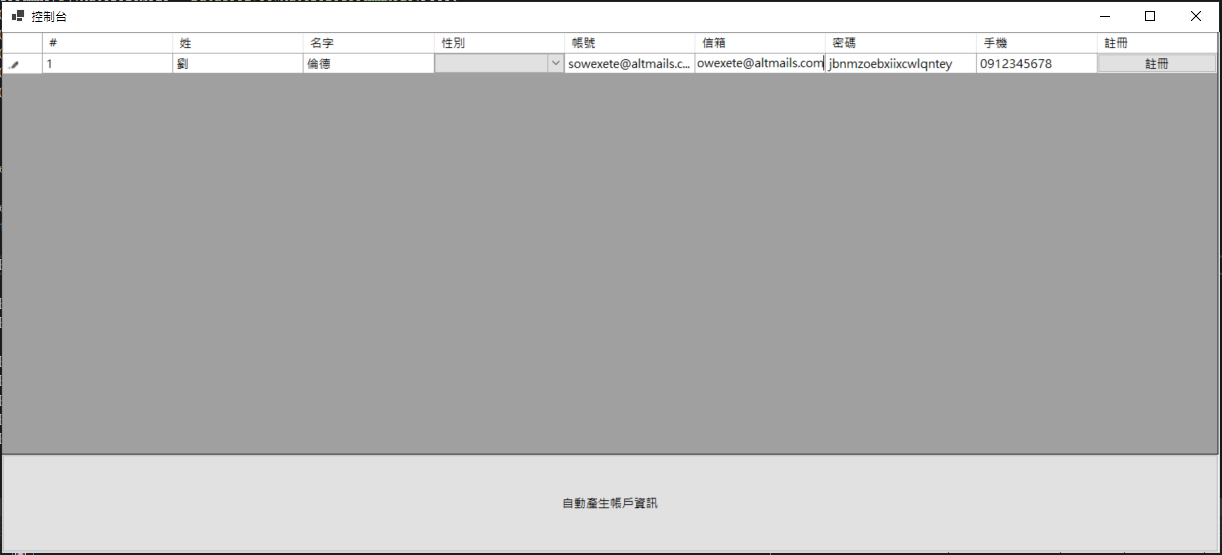
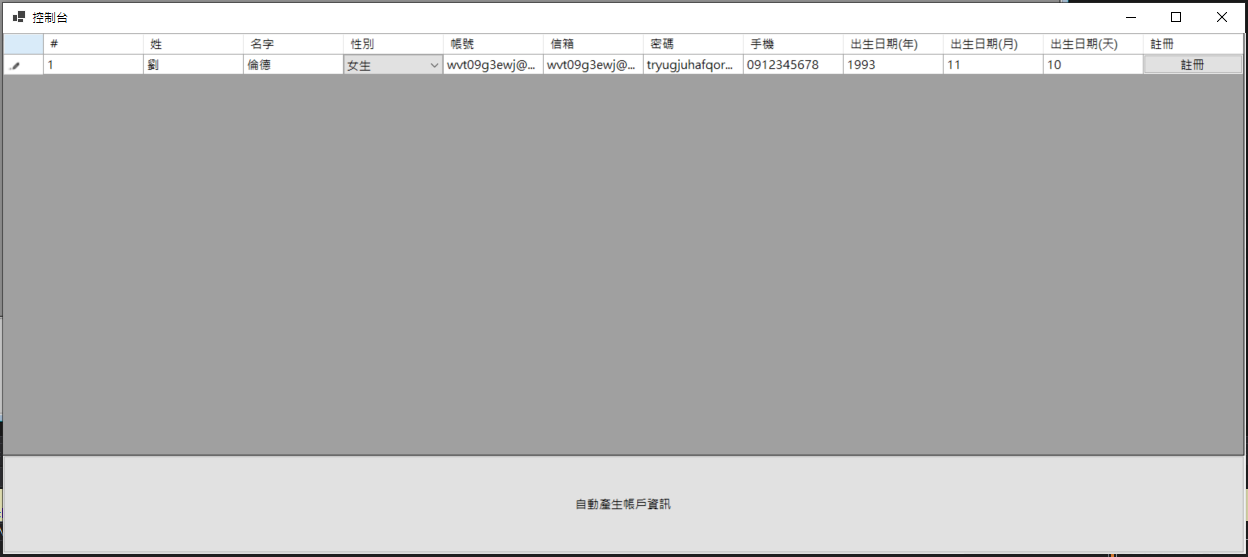
update member information

diff --git a/AutomaticGenerator/Form1.Designer.cs b/AutomaticGenerator/Form1.Designer.cs
@@ -30,6 +30,7 @@ namespace AutomaticGenerator
         private void InitializeComponent()
         {
             this.dataGridView1 = new System.Windows.Forms.DataGridView();
+            this.createAccount = new System.Windows.Forms.Button();
             this.sort = new System.Windows.Forms.DataGridViewTextBoxColumn();
             this.lastName = new System.Windows.Forms.DataGridViewTextBoxColumn();
             this.firstName = new System.Windows.Forms.DataGridViewTextBoxColumn();
@@ -38,8 +39,10 @@ namespace AutomaticGenerator
             this.email = new System.Windows.Forms.DataGridViewTextBoxColumn();
             this.password = new System.Windows.Forms.DataGridViewTextBoxColumn();
             this.cellPhone = new System.Windows.Forms.DataGridViewTextBoxColumn();
+            this.year = new System.Windows.Forms.DataGridViewTextBoxColumn();
+            this.month = new System.Windows.Forms.DataGridViewTextBoxColumn();
+            this.day = new System.Windows.Forms.DataGridViewTextBoxColumn();
             this.register = new System.Windows.Forms.DataGridViewButtonColumn();
-            this.createAccount = new System.Windows.Forms.Button();
             ((System.ComponentModel.ISupportInitialize)(this.dataGridView1)).BeginInit();
             this.SuspendLayout();
             // 
@@ -60,15 +63,32 @@ namespace AutomaticGenerator
             this.email,
             this.password,
             this.cellPhone,
+            this.year,
+            this.month,
+            this.day,
             this.register});
             this.dataGridView1.Location = new System.Drawing.Point(-1, -1);
             this.dataGridView1.Margin = new System.Windows.Forms.Padding(4);
             this.dataGridView1.Name = "dataGridView1";
             this.dataGridView1.RowHeadersWidth = 51;
             this.dataGridView1.RowTemplate.Height = 25;
-            this.dataGridView1.Size = new System.Drawing.Size(1181, 529);
+            this.dataGridView1.Size = new System.Drawing.Size(1553, 529);
             this.dataGridView1.TabIndex = 0;
             this.dataGridView1.CellClick += new System.Windows.Forms.DataGridViewCellEventHandler(this.dataGridView1_CellClick);
+            // 
+            // createAccount
+            // 
+            this.createAccount.Anchor = ((System.Windows.Forms.AnchorStyles)((((System.Windows.Forms.AnchorStyles.Top | System.Windows.Forms.AnchorStyles.Bottom) 
+            | System.Windows.Forms.AnchorStyles.Left) 
+            | System.Windows.Forms.AnchorStyles.Right)));
+            this.createAccount.Location = new System.Drawing.Point(0, 528);
+            this.createAccount.Margin = new System.Windows.Forms.Padding(4);
+            this.createAccount.Name = "createAccount";
+            this.createAccount.Size = new System.Drawing.Size(1552, 122);
+            this.createAccount.TabIndex = 1;
+            this.createAccount.Text = "自動產生帳戶資訊";
+            this.createAccount.UseVisualStyleBackColor = true;
+            this.createAccount.Click += new System.EventHandler(this.createAccount_Click);
             // 
             // sort
             // 
@@ -129,6 +149,27 @@ namespace AutomaticGenerator
             this.cellPhone.Name = "cellPhone";
             this.cellPhone.Width = 125;
             // 
+            // year
+            // 
+            this.year.HeaderText = "出生日期(年)";
+            this.year.MinimumWidth = 6;
+            this.year.Name = "year";
+            this.year.Width = 125;
+            // 
+            // month
+            // 
+            this.month.HeaderText = "出生日期(月)";
+            this.month.MinimumWidth = 6;
+            this.month.Name = "month";
+            this.month.Width = 125;
+            // 
+            // day
+            // 
+            this.day.HeaderText = "出生日期(天)";
+            this.day.MinimumWidth = 6;
+            this.day.Name = "day";
+            this.day.Width = 125;
+            // 
             // register
             // 
             this.register.HeaderText = "註冊";
@@ -139,25 +180,11 @@ namespace AutomaticGenerator
             this.register.Text = "註冊";
             this.register.Width = 125;
             // 
-            // createAccount
-            // 
-            this.createAccount.Anchor = ((System.Windows.Forms.AnchorStyles)((((System.Windows.Forms.AnchorStyles.Top | System.Windows.Forms.AnchorStyles.Bottom) 
-            | System.Windows.Forms.AnchorStyles.Left) 
-            | System.Windows.Forms.AnchorStyles.Right)));
-            this.createAccount.Location = new System.Drawing.Point(0, 528);
-            this.createAccount.Margin = new System.Windows.Forms.Padding(4);
-            this.createAccount.Name = "createAccount";
-            this.createAccount.Size = new System.Drawing.Size(1180, 122);
-            this.createAccount.TabIndex = 1;
-            this.createAccount.Text = "自動產生帳戶資訊";
-            this.createAccount.UseVisualStyleBackColor = true;
-            this.createAccount.Click += new System.EventHandler(this.createAccount_Click);
-            // 
             // Form1
             // 
             this.AutoScaleDimensions = new System.Drawing.SizeF(9F, 19F);
             this.AutoScaleMode = System.Windows.Forms.AutoScaleMode.Font;
-            this.ClientSize = new System.Drawing.Size(1182, 651);
+            this.ClientSize = new System.Drawing.Size(1554, 651);
             this.Controls.Add(this.createAccount);
             this.Controls.Add(this.dataGridView1);
             this.Margin = new System.Windows.Forms.Padding(4);
@@ -180,6 +207,9 @@ namespace AutomaticGenerator
         private System.Windows.Forms.DataGridViewTextBoxColumn email;
         private System.Windows.Forms.DataGridViewTextBoxColumn password;
         private System.Windows.Forms.DataGridViewTextBoxColumn cellPhone;
+        private System.Windows.Forms.DataGridViewTextBoxColumn year;
+        private System.Windows.Forms.DataGridViewTextBoxColumn month;
+        private System.Windows.Forms.DataGridViewTextBoxColumn day;
         private System.Windows.Forms.DataGridViewButtonColumn register;
     }
 }

diff --git a/AutomaticGenerator/Form1.cs b/AutomaticGenerator/Form1.cs
@@ -37,6 +37,9 @@ namespace AutomaticGenerator
             dataGridView1.Columns[6].AutoSizeMode = DataGridViewAutoSizeColumnMode.Fill;
             dataGridView1.Columns[7].AutoSizeMode = DataGridViewAutoSizeColumnMode.Fill;
             dataGridView1.Columns[8].AutoSizeMode = DataGridViewAutoSizeColumnMode.Fill;
+            dataGridView1.Columns[9].AutoSizeMode = DataGridViewAutoSizeColumnMode.Fill;
+            dataGridView1.Columns[10].AutoSizeMode = DataGridViewAutoSizeColumnMode.Fill;
+            dataGridView1.Columns[11].AutoSizeMode = DataGridViewAutoSizeColumnMode.Fill;
         }
 
         private void createAccount_Click(object sender, EventArgs e)
@@ -45,15 +48,16 @@ namespace AutomaticGenerator
             var index = dataGridView1.Rows.Add();
 
             dataGridView1.Rows[index].Cells["sort"].Value = index + 1;
-
             dataGridView1.Rows[index].Cells["lastname"].Value = "劉";
             dataGridView1.Rows[index].Cells["firstName"].Value = "倫德";
-
             dataGridView1.Rows[index].Cells["email"].Value = mails;
             dataGridView1.Rows[index].Cells["account"].Value = mails;
             dataGridView1.Rows[index].Cells["password"].Value = Mmeber.RandomString(20, true);
             dataGridView1.Rows[index].Cells["cellPhone"].Value = "0912345678";
             dataGridView1.Rows[index].Cells["register"].Value = "註冊";
+            dataGridView1.Rows[index].Cells["year"].Value = "1993";
+            dataGridView1.Rows[index].Cells["month"].Value = "11";
+            dataGridView1.Rows[index].Cells["day"].Value = "10";
         }
 
         private void dataGridView1_CellClick(object sender, DataGridViewCellEventArgs e)
@@ -61,10 +65,8 @@ namespace AutomaticGenerator
             if (dataGridView1.CurrentCell == null || dataGridView1.CurrentCell.Value == null || e.RowIndex == -1) 
                 return;
 
-            if (e.ColumnIndex == 8)
+            if (e.ColumnIndex == 11)
             {
-                // MessageBox.Show(dataGridView1.CurrentCell.Value.ToString());
-
                 var DeviceDriver = ChromeDriverService.CreateDefaultService();
                 DeviceDriver.HideCommandPromptWindow = true;
 
@@ -78,15 +80,14 @@ namespace AutomaticGenerator
 
                 string lastname = Convert.ToString(dataGridView1.Rows[e.RowIndex].Cells[1].Value);
                 string firstname = Convert.ToString(dataGridView1.Rows[e.RowIndex].Cells[2].Value);
-                string sex = Convert.ToString(dataGridView1.Rows[e.RowIndex].Cells[3].Value);
-
-                sex = "1";
-                if (sex == "男生")
-                    sex = "2";
-
+                string sex = (Convert.ToString(dataGridView1.Rows[e.RowIndex].Cells[3].Value) == "男生" ? "1" : "2");
                 string account = Convert.ToString(dataGridView1.Rows[e.RowIndex].Cells[4].Value);
                 string email = Convert.ToString(dataGridView1.Rows[e.RowIndex].Cells[5].Value);
                 string password = Convert.ToString(dataGridView1.Rows[e.RowIndex].Cells[6].Value);
+
+                string year = Convert.ToString(dataGridView1.Rows[e.RowIndex].Cells[8].Value);
+                string month = Convert.ToString(dataGridView1.Rows[e.RowIndex].Cells[9].Value);
+                string day = Convert.ToString(dataGridView1.Rows[e.RowIndex].Cells[10].Value);
 
                 _driver.FindElement(By.XPath("//input[@name='lastname']")).SendKeys(lastname);
                 _driver.FindElement(By.XPath("//input[@name='firstname']")).SendKeys(firstname);
@@ -96,21 +97,21 @@ namespace AutomaticGenerator
                 _driver.FindElement(By.XPath("//input[@name='reg_passwd__']")).SendKeys(password);
 
                 IWebElement yearElement = _driver.FindElement(By.XPath("//select[@id='year']"));
-                SelectElement year = new SelectElement(yearElement);
-                year.SelectByValue("1993");
+                SelectElement yearSelectElement = new SelectElement(yearElement);
+                yearSelectElement.SelectByValue(year);
 
                 Thread.Sleep(1000);
                 IWebElement monthElement = _driver.FindElement(By.XPath("//select[@id='month']"));
-                SelectElement month = new SelectElement(monthElement);
-                month.SelectByValue("11");
+                SelectElement monthSelectElement = new SelectElement(monthElement);
+                monthSelectElement.SelectByValue(month);
 
                 Thread.Sleep(1000);
                 IWebElement dayElement = _driver.FindElement(By.XPath("//select[@id='day']"));
-                SelectElement day = new SelectElement(dayElement);
-                day.SelectByValue("10");
+                SelectElement daySelectElement = new SelectElement(dayElement);
+                daySelectElement.SelectByValue(day);
 
                 Thread.Sleep(1000);
-                IWebElement sexElement = _driver.FindElement(By.XPath("//input[@name='sex'][@value='2']"));
+                IWebElement sexElement = _driver.FindElement(By.XPath("//input[@name='sex'][@value='"+ sex + "']"));
                 sexElement.Click();
 
                 Thread.Sleep(1000);
